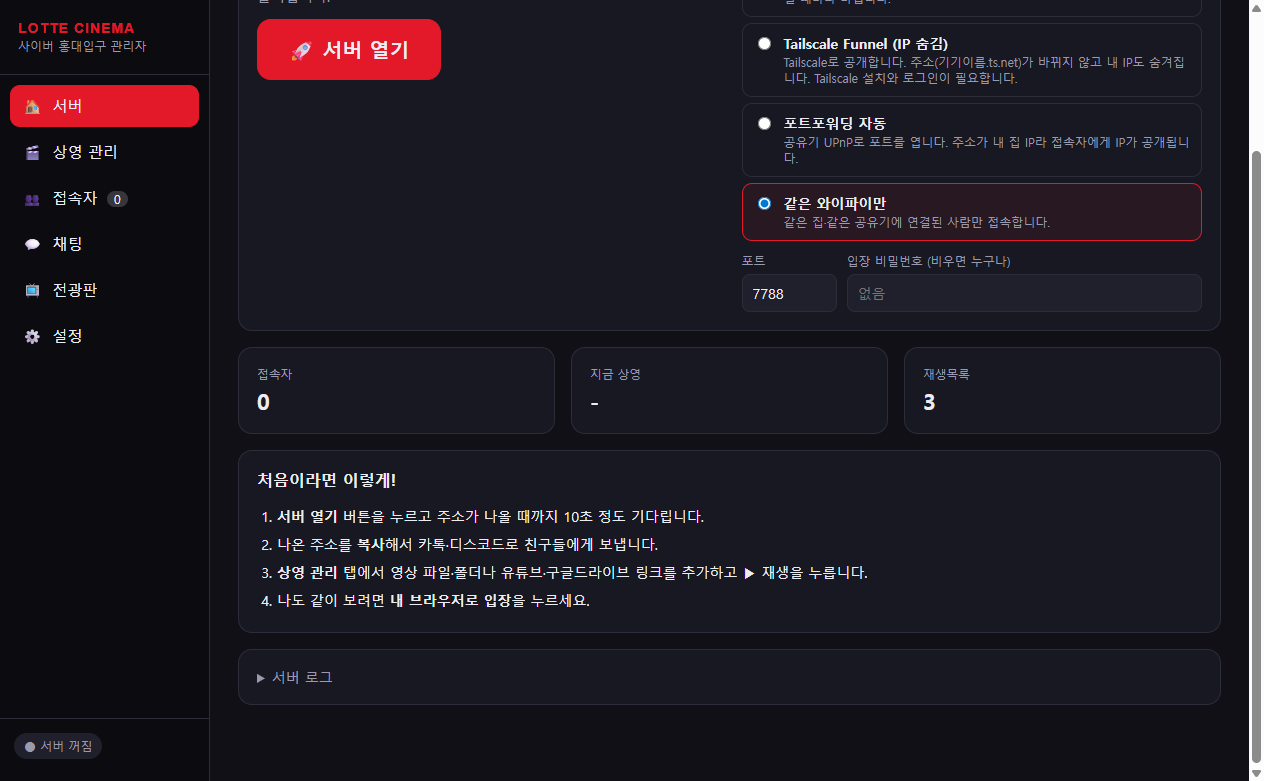
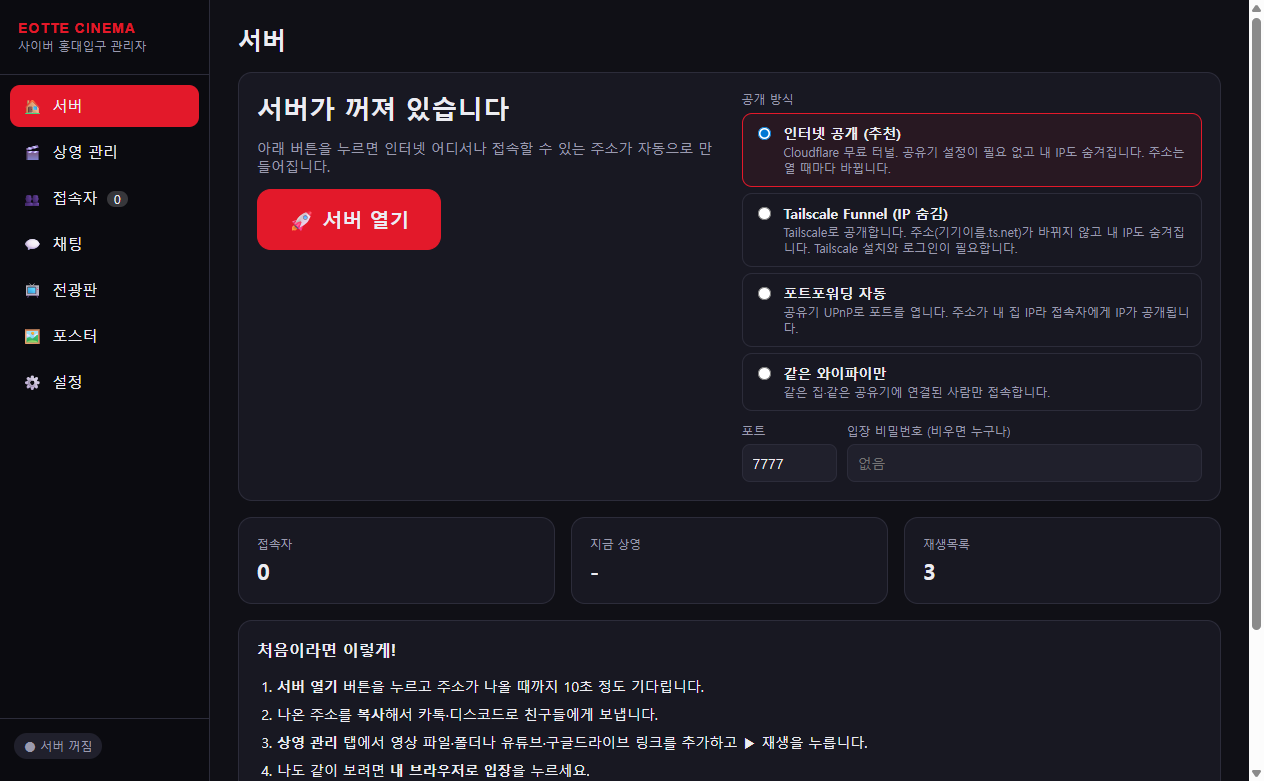
README 최신화: 어데시네마 이름, 포스터 탭 안내, 새 스크린샷
- 목차·기능 목록에 포스터 바꾸기 추가, 포스터 탭 스크린샷 추가
- 대시보드 스크린샷(서버·상영 관리·전광판) 새 로고/이름으로 다시 찍음
- 4관 입구 스크린샷 새로 찍음(폭음시네마 사인, 새 포스터), 로비 스크린샷 가장자리의 옛 사인 잘라냄

diff --git a/README.md b/README.md
@@ -5,11 +5,11 @@
 
 **[English README](README.en.md)**
 
-롯데시네마 홍대입구 10층 로비와 **4관 광음시네마**를 3D로 재현한 **온라인 단체관람 공간**입니다.
+롯데시네마 홍대입구점을 모티브로 만든 가상의 영화관 **어데시네마(EOTTE CINEMA)** 10층 로비와 **4관 폭음시네마**를 3D로 구현한 **온라인 단체관람 공간**입니다.
 
 관리자가 자기 컴퓨터에서 버튼 한 번으로 서버를 열면, 친구들은 **설치 없이 브라우저로 주소만 열어** 캐릭터로 입장합니다. 같은 영화를 같은 장면으로 함께 보면서 채팅하고, 응원봉을 흔들고, 극장 좌석에 앉을 수 있습니다.
 
-![4관 광음시네마](docs/images/theater.jpg)
+![4관 폭음시네마](docs/images/theater.jpg)
 
 | 로비 | 4관 입구 |
 |---|---|
@@ -29,18 +29,19 @@
 4. [Tailscale로 IP 숨기고 공개하기](#-tailscale로-ip-숨기고-공개하기)
 5. [영화 틀기](#-영화-틀기)
 6. [전광판 꾸미기](#-전광판-꾸미기)
-7. [접속자 관리](#-접속자-관리)
-8. [접속자 조작법](#-접속자-조작법)
-9. [내 3D 모델로 입장하기](#-내-3d-모델로-입장하기)
-10. [자주 묻는 질문 / 문제 해결](#-자주-묻는-질문--문제-해결)
-11. [개발자용 정보](#-개발자용-정보)
-12. [라이선스와 고지](#-라이선스와-고지)
+7. [포스터 바꾸기](#-포스터-바꾸기)
+8. [접속자 관리](#-접속자-관리)
+9. [접속자 조작법](#-접속자-조작법)
+10. [내 3D 모델로 입장하기](#-내-3d-모델로-입장하기)
+11. [자주 묻는 질문 / 문제 해결](#-자주-묻는-질문--문제-해결)
+12. [개발자용 정보](#-개발자용-정보)
+13. [라이선스와 고지](#-라이선스와-고지)
 
 ---
 
 ## ✨ 무엇을 할 수 있나요?
 
-- **3D 영화관**: Blender 스크립트로 만든 롯데시네마 홍대입구 10층 맵을 돌아다닐 수 있습니다. 4관 광음시네마(스크린, 보라색 LED 서브우퍼, 석재 흡음벽, 그래피티 벽화, 검은 가죽 좌석 187석의 스타디움 객석)와 로비(Sweet# 매점, 키오스크, 창가 바, 로비 전광판, 포스터, 베이비시트, 5관·6관 입구, 화장실)가 있습니다.
+- **3D 영화관**: Blender 스크립트로 만든 어데시네마 10층 맵(롯데시네마 홍대입구점 모티브)을 돌아다닐 수 있습니다. 4관 폭음시네마(스크린, 보라색 LED 서브우퍼, 석재 흡음벽, 그래피티 벽화, 검은 가죽 좌석 187석의 스타디움 객석)와 로비(Sweet# 매점, 키오스크, 창가 바, 로비 전광판, 포스터 라이트박스, 베이비시트, 5관·6관 입구, 화장실)가 있습니다.
 - **함께 보기**: 관리자가 튼 영상을 모든 접속자가 **같은 시점**으로 봅니다. 늦게 들어와도 자동으로 맞춰집니다.
 - **거의 모든 영상**: 내 PC 영상 파일·폴더, 유튜브 영상·재생목록, 구글 드라이브, 치지직·트위치·SOOP 생방송, mp4·m3u8 링크, 자체 웹서버 폴더 주소 등을 재생합니다.
 - **자막**: SMI·SRT·ASS·VTT를 지원하고, MKV 내장 자막과 유튜브 자막도 자동으로 붙습니다.
@@ -50,7 +51,8 @@
 - **응원봉(킹블레이드)**: 방과후 티타임 5색(빨강·파랑·노랑·핑크·초록) 중 고를 수 있고 흔들 수 있습니다.
 - **이모트**: 손 흔들기, 박수, 만세, 인사, 춤, 화이팅, 에어 기타, 에어 드럼 등이 있습니다.
 - **좌석 착석**: 좌석에 앉으면 관객 시점이 됩니다.
-- **관리자 대시보드**: 서버 열기, 상영 관리, 강퇴·밴·채팅 금지, 공지, 로비 전광판 영상, 4관 전광판 문구를 모두 GUI로 다룹니다.
+- **포스터 꾸미기**: 맵 곳곳의 포스터 라이트박스 8칸을 원하는 이미지로 바꿀 수 있습니다. 기본으로는 이 프로젝트용으로 새로 그린 가상의 영화 포스터 8장이 걸려 있습니다.
+- **관리자 대시보드**: 서버 열기, 상영 관리, 강퇴·밴·채팅 금지, 공지, 로비 전광판 영상, 4관 전광판 문구, 포스터를 모두 GUI로 다룹니다.
 
 ---
 
@@ -169,6 +171,17 @@ Tailscale Funnel을 쓰면 **내 집 IP를 숨긴 채** 항상 같은 주소로 
 
 - **4관 입구 전광판**: 관 이름, 층, 영화 제목(현재 상영작을 자동으로 표시하거나 직접 입력), 안내 문구, 영문 문구, 글자색, 시계, 배경 이미지를 바꿀 수 있습니다. 위쪽 미리보기로 확인한 뒤 **전광판 문구 적용**을 누르세요.
 - **로비 전광판**: 창가 쪽 대형 LED에 영상, 이미지, 링크를 반복 재생합니다. 아무것도 고르지 않으면 포스터 슬라이드와 상영 정보가 나옵니다.
+
+## 🖼 포스터 바꾸기
+
+**🖼 포스터** 탭에서 합니다.
+
+- 맵 곳곳(로비·복도·매표소·엘리베이터 홀)의 포스터 라이트박스와 로비 전광판 포스터 슬라이드에 쓰이는 **포스터 8장**을 칸마다 원하는 이미지로 바꿀 수 있습니다.
+- **바꾸기**를 누르거나 이미지 파일을 칸 위로 끌어다 놓으면 접속 중인 사람들 화면에도 바로 바뀝니다. **기본으로** / **모두 기본 포스터로**로 되돌립니다.
+- 세로 7:10 비율(예: 700×1000)이 가장 잘 맞습니다. 비율이 다르면 가운데를 기준으로 잘립니다.
+- 기본 포스터 8장은 이 프로젝트용으로 새로 그린 가상의 영화 포스터입니다 (`app/blender/make_posters.py`).
+
+![포스터 탭](docs/images/dashboard_posters.png)
 
 ---
 
@@ -307,7 +320,6 @@ app/
     assets/map/cinema.glb     Blender로 생성한 맵
   blender/          맵 생성 스크립트와 텍스처
   scripts/          설치·에셋 준비·부하 테스트
-poster/             영화 포스터 이미지 (맵 포스터 아틀라스에 사용)
 BLADE/              응원봉 시트지 도안
 ```
 
@@ -327,7 +339,8 @@ node scripts/bots.js 80 ws://localhost:7777/ws 60   # 부하 테스트 봇
 ```bash
 cd app/blender
 python make_textures.py        # 글자가 들어가는 간판 등 절차 텍스처
-python compose_ai.py           # AI 텍스처 합성 + poster 폴더 포스터 아틀라스
+python make_posters.py         # 기본 포스터 8장 + 포스터 아틀라스
+python compose_ai.py           # AI 텍스처 합성
 blender -b -P build_cinema.py -- --render
 ```
 
@@ -342,7 +355,7 @@ blender -b -P build_cinema.py -- --render
 ## 📜 라이선스와 고지
 
 - **코드와 오리지널 에셋**(오리지널 아바타, 맵 생성 스크립트, 생성 텍스처)은 [MIT License](LICENSE)를 따릅니다.
-- 이 프로젝트는 **팬 메이드 비영리 프로젝트**이며, 롯데시네마·롯데컬처웍스, 「케이온!」 원작자 및 제작사와 **관련이 없습니다**. "LOTTE CINEMA", "Sweet#", "광음시네마", 「케이온!」 등의 명칭과 상표는 각 권리자의 것입니다.
-- `poster/` 폴더의 영화 포스터 이미지는 각 권리자에게 저작권이 있으며, 맵 안의 포스터 라이트박스에 쓰입니다.
-- 사진·일러스트풍 텍스처(전광판 배경, 그래피티, 야경, 메뉴 음식 사진, 카펫·석재 타일, 가상 포스터)는 OpenAI Codex(gpt-6.1-sol)로 생성했습니다.
+- 이 프로젝트는 **팬 메이드 비영리 프로젝트**이며, 롯데시네마·롯데컬처웍스, 「케이온!」 원작자 및 제작사와 **관련이 없습니다**. 맵은 롯데시네마 홍대입구점을 모티브로 했지만, 맵 안의 "어데시네마(EOTTE CINEMA)", "폭음시네마"는 가상의 이름입니다. "Sweet#", 「케이온!」 등의 명칭과 상표는 각 권리자의 것입니다.
+- 기본 포스터 8장(가상의 영화)은 `make_posters.py`로 직접 그린 것입니다. 포스터 탭에 올린 이미지의 권리는 올린 사람에게 있습니다.
+- 사진·일러스트풍 텍스처(전광판 배경, 그래피티, 야경, 메뉴 음식 사진, 카펫·석재 타일)는 OpenAI Codex(gpt-6.1-sol)로 생성했습니다.
 - 사용 라이브러리: three.js(MIT), three-vrm(MIT), three-mesh-bvh(MIT), hls.js(Apache-2.0), Express(MIT), ws(MIT), Electron(MIT), iconv-lite(MIT), qrcode(MIT), nat-api(MIT). 외부 도구: ffmpeg(LGPL/GPL), yt-dlp(Unlicense), cloudflared(Apache-2.0), Tailscale. 외부 도구는 설치할 때 각 공식 배포처에서 받습니다.

diff --git a/README.en.md b/README.en.md
@@ -5,7 +5,7 @@
 
 **[한국어 README](README.md)**
 
-A 3D **online watch-party space** that recreates the 10th-floor lobby of LOTTE CINEMA Hongik Univ. (Hongdae) in Seoul and its **Screen 4 "Kwang-eum Cinema"**.
+A 3D **online watch-party space** set in **EOTTE CINEMA**, a fictional cinema modeled on the 10th-floor lobby of LOTTE CINEMA Hongik Univ. (Hongdae) in Seoul, and its **Screen 4 "Pok-eum Cinema"**.
 
 The host opens a server from their own PC with one click. Friends then **just open a link in their browser**, with no install, and walk in as a character. Everyone watches the same movie in sync, chats, waves light sticks and sits in theater seats.
 
@@ -47,6 +47,8 @@ The host opens a server from their own PC with one click. Friends then **just op
   - Playlist control.
   - Kick, ban and mute; announcements.
   - Lobby LED video; Screen 4 sign text.
+  - Posters: replace any of the 8 poster light boxes in the map with your own images.
+- **Original default posters**: 8 fictional movie posters drawn from scratch for this project.
 
 ---
 
@@ -119,6 +121,12 @@ In the **🎬 상영 관리** (*Playlist*) tab:
 
 - **Screen 4 entrance sign**: hall name, floor, title (auto = currently playing), messages in Korean and English, text color, clock, background image. A live preview is shown.
 - **Lobby LED wall**: loops a video, image or link. With nothing selected it shows a poster slideshow and now-playing info.
+
+## 🖼 Posters
+
+In the **🖼 포스터** (*Posters*) tab you can replace each of the **8 posters** used by the light boxes around the map and the lobby LED slideshow. Click **바꾸기** (*Change*) or drop an image onto a slot; everyone connected sees the change right away. **기본으로** (*Default*) restores a slot. Portrait 7:10 images (e.g. 700×1000) fit best; other ratios are center-cropped. The 8 default posters are original fictional movies drawn by `app/blender/make_posters.py`.
+
+![Posters tab](docs/images/dashboard_posters.png)
 
 ## 👮 Moderation
 
@@ -214,6 +222,7 @@ Rebuild the map:
 ```bash
 cd app/blender
 python make_textures.py
+python make_posters.py
 python compose_ai.py
 blender -b -P build_cinema.py -- --render
 ```
@@ -221,8 +230,8 @@ blender -b -P build_cinema.py -- --render
 ## 📜 License & notices
 
 - **Code and original assets** (original avatars, map build scripts, generated textures) are released under the [MIT License](LICENSE).
-- This is a **non-commercial fan project** and is **not affiliated** with LOTTE Cinema / LOTTE Cultureworks or with the creators and producers of *K-ON!*. "LOTTE CINEMA", "Sweet#", "광음시네마" and *K-ON!* are names and trademarks of their respective owners.
-- The movie posters in `poster/` are copyrighted by their respective owners and are used on the poster light boxes in the map.
-- Photo and illustration textures (sign backgrounds, graffiti, night city, menu photos, carpet and stone tiles, fictional posters) were generated with OpenAI Codex (gpt-6.1-sol).
+- This is a **non-commercial fan project** and is **not affiliated** with LOTTE Cinema / LOTTE Cultureworks or with the creators and producers of *K-ON!*. The map is modeled on LOTTE CINEMA Hongdae, but "EOTTE CINEMA (어데시네마)" and "폭음시네마" in the map are fictional names. "Sweet#" and *K-ON!* are names and trademarks of their respective owners.
+- The 8 default posters (fictional movies) were drawn from scratch by `make_posters.py`. Images uploaded in the Posters tab belong to whoever uploads them.
+- Photo and illustration textures (sign backgrounds, graffiti, night city, menu photos, carpet and stone tiles) were generated with OpenAI Codex (gpt-6.1-sol).
 - **Libraries**: three.js (MIT), three-vrm (MIT), three-mesh-bvh (MIT), hls.js (Apache-2.0), Express (MIT), ws (MIT), Electron (MIT), iconv-lite (MIT), qrcode (MIT), nat-api (MIT).
 - **Tools downloaded at setup time**: ffmpeg (LGPL/GPL), yt-dlp (Unlicense), cloudflared (Apache-2.0), Tailscale.
